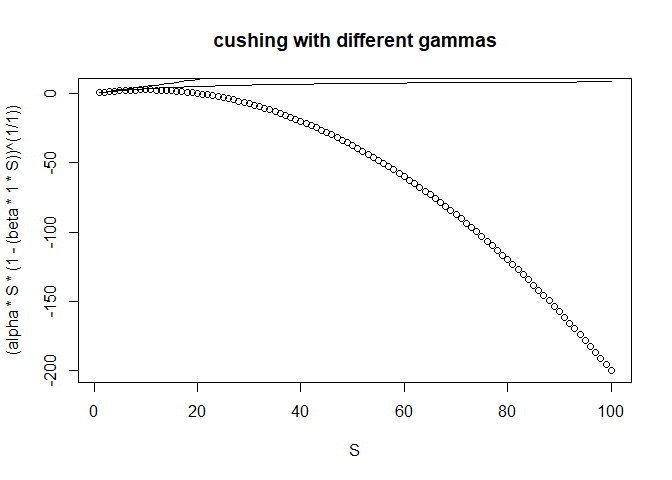
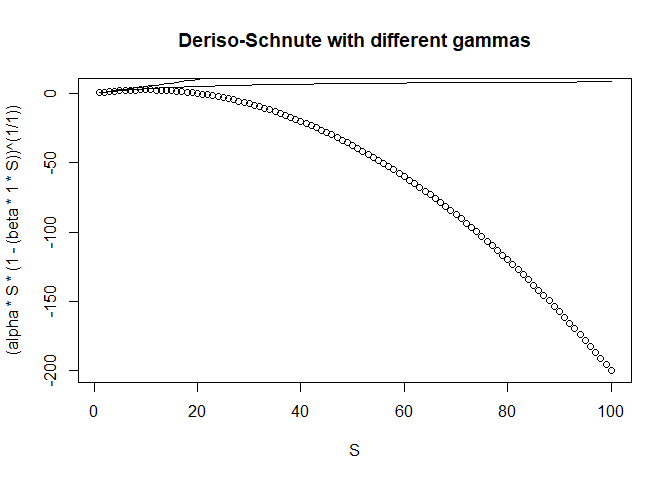
add depensation exercise

Changed region(s): [[0.25, 0.0625, 0.8125, 0.125]]

diff --git a/recruitment.md b/recruitment.md
@@ -175,7 +175,7 @@ plot(R_DS~S, main = paste("Deriso-Schnute(alpha=", alpha, "beta=", beta, "gamma=
 -   Hmmm, need to pick better numbers?
 
 ``` r
-plot((alpha*S*(1-(beta*1*S))^(1/1))~S, main = "cushing with different gammas")
+plot((alpha*S*(1-(beta*1*S))^(1/1))~S, main = "Deriso-Schnute with different gammas")
 lines((alpha*S*(1-(beta*-1*S))^(1/-1))~S)
 lines((alpha*S*(1-(beta*0*S))^(1/0))~S)
 ```
@@ -186,4 +186,195 @@ lines((alpha*S*(1-(beta*0*S))^(1/0))~S)
 
 When `gamma <- 1` you have a Beverton-Holt, when `gamma > 1` a dome
 shaped SR curve, and when `gamma < 1` a curve that increases
-indefinitely like the Cushing.
+indefinitely like the Cushing.  
+Derived by making considerations between recruitment and growth, where
+DD is inversely proportional to resultant growth, and growth is a DD
+funciton of the number of eggs.
+
+``` r
+R_Shep <- alpha*S/(1+(beta*S^gamma))
+
+plot(R_Shep~S, )
+```
+
+![](recruitment_files/figure-gfm/Shepard-1.png)<!-- -->
+
+### Gamma
+
+*unnormalized* (wtf?) gamma function. Similar flexibility to the
+Deriso_Schnute, but the asymptotic behavior of the Beverton-Holt not
+completely captured. When `gamma . 0` it’s dome shaped like a Ricker,
+and is a Ricker when `gamma <- 1`. It’s a Cushing when `beta <- 0`, and
+behaves like a Beverton-Holt as `gamma` approaches 0. When `gamma <= 0`
+it isn’t a proper SR model because it doesn’t go through the origin
+(Reish et al, 1985).  
+- *again* why show those 2 parameterizations like the Cushing in eq
+3.22?
+
+``` r
+R_Gamma <- (alpha*S^gamma)*exp(-beta*S)
+
+plot(R_Gamma~S)
+```
+
+![](recruitment_files/figure-gfm/gamma-1.png)<!-- -->
+
+## Depensatory models
+
+So far only the Gamma SR model has any depensation in it. We can modify
+the B-H and Ricker to include a term for depensation.  
+Note that when `gamma <- 1` The models are in their original form. When
+`gamma > 1` populations show depensation.
+
+``` r
+gamma <- 1.5 #overwrite gamma to be depensatory 
+
+R_dep_R <- alpha*S^gamma/(1+(beta*S^gamma))
+
+plot(R_dep_R ~S, main = "depensatory B-H")
+```
+
+![](recruitment_files/figure-gfm/depensaiton-1.png)<!-- -->
+
+``` r
+delta <- 2
+R_dep_BH <- alpha*S*exp((beta*S) - (delta*S^gamma))
+
+plot(R_dep_BH~S, main = "depensatory Ricker")
+```
+
+![](recruitment_files/figure-gfm/depensaiton-2.png)<!-- -->
+
+## Denensatory recruitment exercise
+
+It’s really hard to see the depensation in these, so we’ll try another
+exercise leftover from a class Chris Cahill and John Post taught me
+(Dylan) back in 2018 or something…  
+This Beverton-Holt with depensation, `delta`, follows a form from [Myers
+et al,
+1995](https://www.science.org/doi/epdf/10.1126/science.269.5227.1106),
+but is the same as eq. 3.27 in Q&D.  
+We’ll set the parameters here. Some are log-transformed to ease in
+estimation later.
+
+``` r
+S <- 0:1000 #spawners
+alpha <- .07 
+K <- log(7500) #K is density dependent effect 
+delta <- 1.7 #depensatory term 
+r_sd <- log(20) #sd for sims
+
+MinStock <- c(0, 150, 300, 600) #how far down are you allowed to fish the stock? 
+```
+
+Now we’ll add some error.
+
+``` r
+R_dep_BH <- (alpha*S^delta)/(1+(S^delta/(exp(K)))) #deterministic 
+
+#OK, now to simulate some data
+eps_add <- rnorm(100, sd=exp(r_sd)) #additive error 
+SSamples <- sample(S, 100, replace=TRUE) #randomly select 100 values of S
+R_Noisy <- (alpha*SSamples^delta)/(1+(SSamples^delta/(exp(K))))+eps_add 
+```
+
+Now we can toggle the `MinStock` around (by changing `x` in
+`MinStock[x]`) to be however low a manager would allow the stock to get
+before seeing the shape of the SR curve. Can expand this by
+adding/removing values to the `MinStock` vector as well.  
+- I wonder if it makes sense to add more error to the truncated
+(i.e. observed) data…?
+
+``` r
+TruncSSamples <- sample(MinStock[2]:1000, 100, replace=TRUE)
+R_TruncNoisy <- (alpha*TruncSSamples^delta)/(1+(TruncSSamples^delta/(exp(K))))+eps_add
+```
+
+Probably makes sense to look at the fake data at this point! Open
+circles are what the deterministic model was fit to, and the closed
+circles are what we’ll try to estimate.
+
+``` r
+plot(R_dep_BH~S, type="l",  
+     main="True data (open), replacement line(dashed), and simulated data (closed)", 
+     ylim=c(0,650))
+points(R_Noisy~SSamples)
+points(R_TruncNoisy~TruncSSamples, pch=16)
+lines(S~S,lty=3)#1:1 replacement line
+```
+
+![](recruitment_files/figure-gfm/plot%20depensation%20sim-1.png)<!-- -->
+- not much depensation on that fig… how could we increase it in a sim?
+
+Now we’ll build a likelihood.
+
+``` r
+parms <- c(alpha, K, r_sd, delta) 
+
+getNegLogLike <- function(parms){
+  alpha  <- parms[1] #unpack parms
+  K <- exp(parms[2])
+  r_sd  <- exp(parms[3]) 
+  if(length(parms>3)){
+      delta  <- parms[4]
+  } else{
+    delta <- 1
+  }
+  predicted <- (alpha*S^delta)/(1+(S^delta/K)) 
+  NegLogLike <- -sum(log(dnorm(observed, predicted, sd=r_sd))) #calculate NLL
+  return(NegLogLike)
+}
+```
+
+Now we’ll simulate and estimate parms for the 4 levels of acceptable
+harvest.  
+- something’s breaking  
+- am I fitting this right or is it still trying to estimate `delta`? I
+want to make sure `optim` isn’t trying to guess `delta`
+
+``` r
+NSim <- 1000
+NSamps <- 100
+#build empty array(rows=sims, cols=parms, pages=fits, books=stock levels)
+answers <- array(NA, dim=c(NSim, 4, 2, 4)) 
+
+#values to be estimated, just going to use true values for ease of fit 
+alpha_e <- alpha
+K_e <- K   
+delta_e <- delta 
+r_sd_e <- r_sd
+
+dep_parms  <- c(alpha_e, K_e, r_sd_e, delta_e) 
+classic_parms  <- c(alpha_e, K_e, r_sd_e)
+
+if(FALSE){ #turning this off for now because it's busted. 
+
+#loop some sims 
+for(k in length(MinStock)){ #loop min stock sizes
+  for(j in 1:2){ #loop methods
+    if(j==1){parms<-dep_parms} 
+    if(j==2){parms<-classic_parms
+    delta <- 1}
+    for(i in 1:NSim){
+      #make vectors of observed and predicted
+      SimStock <- sample(MinStock[k]:1000, NSamps, replace=TRUE)
+
+      predicted <- (alpha*SimStock^delta)/(1+(SimStock^delta/exp(K)))
+      observed  <- predicted + rnorm(length(predicted), mean=0, exp(r_sd)) 
+  
+      #fit it
+      fit <- optim(parms, getNegLogLike, method="Nelder-Mead", hessian=T)
+  
+  #print results and account for uneven # of parms
+  if(length(fit$par)==dim(answers)[2]){answers[i, ,j,k] <- fit$par} 
+  else {answers[i, 1:3 ,j,k] <- fit$par} 
+    }
+  }
+}
+
+str(answers)
+colnames(answers) <- c("alpha", "log_K", "log_r_sd", "delta") #some names for parms
+head(answers[,,1,1])#checking it's all populated
+
+} #close chunk turning it off. 
+```
